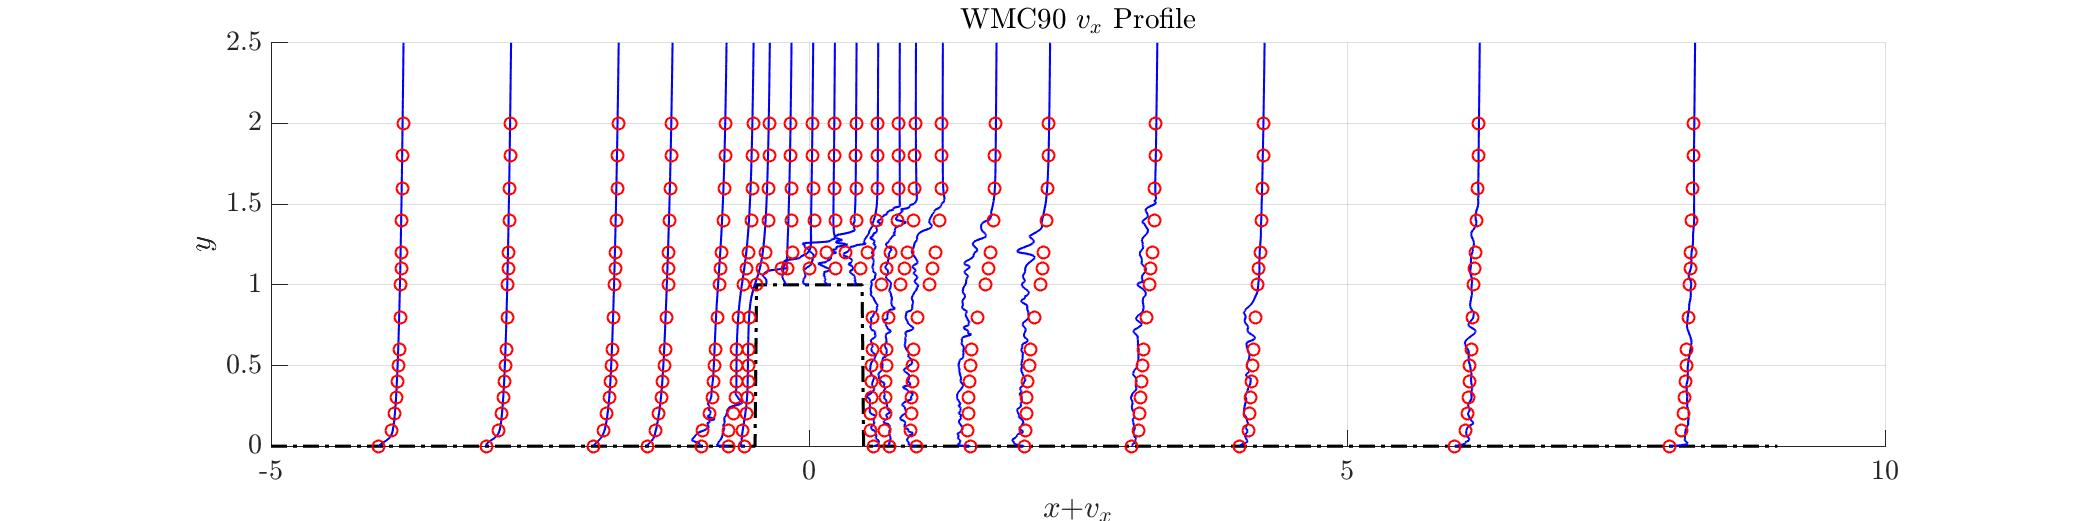
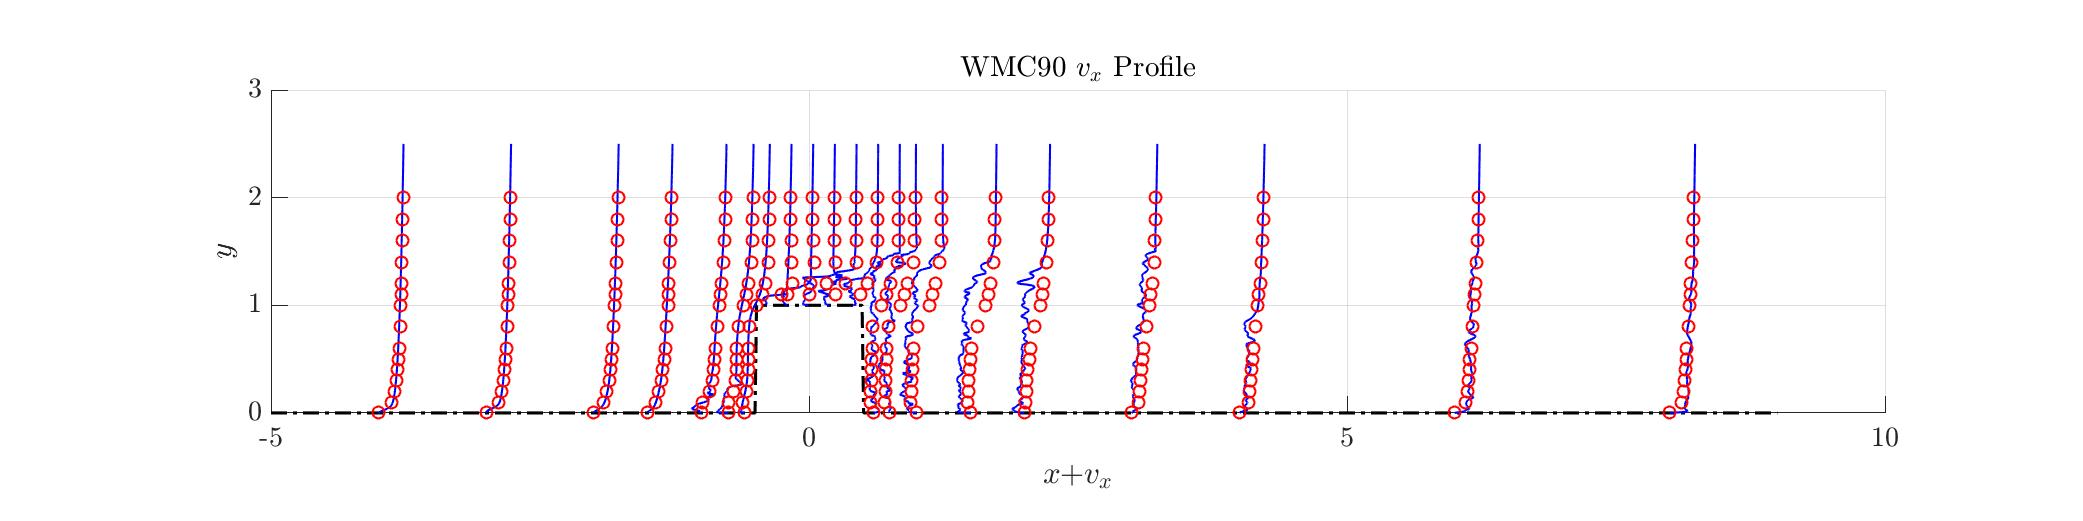
clarified TKE scaling

diff --git a/mtlb/epa90.m b/mtlb/epa90.m
@@ -49,6 +49,7 @@ pN=U(:,4);
 uuN=tk(:,1);
 vvN=tk(:,2);
 wwN=tk(:,3);
+k1N=0.75*(uuN+vvN); % good proxy for TKE
 
 kN = 0.5 * sum(tk')';
 
@@ -84,9 +85,7 @@ uE1=M(:,3)*ufactor;
 uuE1=M(:,4)*ufactor;
 vE1=M(:,5)*ufactor; % w -> v
 vvE1=M(:,6)*ufactor; % w -> v
-kE1=M(:,7)*ufactor*ufactor;
-knormE1=M(:,8)*ufactor;
-sqrtHE1=M(:,9)*ufactor;
+kE1 = 0.75*(uuE1.*uuE1+vvE1.*vvE1);
 
 zE1=xE1*0;
 [xE1,yE1,zE1] = insidecube(al,xE1,yE1,zE1);
@@ -94,15 +93,10 @@ zE1=xE1*0;
 % figs
 %----------
 
-k1E1 = 0.5*(uuE1.*uuE1+vvE1.*vvE1);
-k1N  = 0.5*(uuN .*uuN +vvN .*vvN );
 
-profXY2(uN(I1),xN(I1),yN(I1),uE1,xE1,yE1,0.2,'u','$$v_x$$',al,xw,yw);
-profXY2(kN(I1),xN(I1),yN(I1),kE1,xE1,yE1,1.0,'k','$$k$$',al,xw,yw);
-
-profXY2(k1N(I1),xN(I1),yN(I1),k1E1,xE1,yE1,1.0,'k1Nk1E','k1Nk1E',al,xw,yw);
-profXY2(kN(I1) ,xN(I1),yN(I1),k1E1,xE1,yE1,1.0,'k0Nk1E','k0Nk1E',al,xw,yw);
-%profXY2(kE1,xE1,yE1,k1E1,xE1,yE1,1.0,'kkk','$$k$$',al,xw,yw);
+profXY2( uN(I1),xN(I1),yN(I1),uE1,xE1,yE1,0.2,'u','$$v_x$$',al,xw,yw);
+profXY2(k1N(I1),xN(I1),yN(I1),kE1,xE1,yE1,1.0,'k','$$k$$'  ,al,xw,yw);
+%
 %=======================================================
 % vertical centerline plane
 %=======================================================
@@ -130,13 +124,15 @@ xE2=M(:,1)*xfactor;
 zE2=M(:,2)*xfactor; % y -> z
 uE2=M(:,3)*ufactor;
 uuE2=M(:,4)*ufactor;
-vE2=M(:,7)*ufactor;  % w -> v
-vvE2=M(:,8)*ufactor; % w -> v
+wE2=M(:,7)*ufactor;  % v -> w
+wwE2=M(:,8)*ufactor; % v -> w
+kE2 = 0.75*(uuE2.*uuE2+wwE2.*wwE2);
 
 yE2=xE2*0+0.1;
 [xE2,yE2,zE2] = insidecube(al,xE2,yE2,zE2);
 %----------
 % figs
 %----------
-profXZ2(uN(I2),xN(I2),zN(I2),uE2,xE2,zE2,0.2,'u','$$v_x$$',al,xw,yw,0.1);
+profXZ2( uN(I2),xN(I2),zN(I2),uE2,xE2,zE2,0.2,'u','$$v_x$$',al,xw,yw,0.1);
+profXZ2(k1N(I2),xN(I2),zN(I2),kE2,xE2,zE2,1.0,'k','$$k$$'  ,al,xw,yw,0.1);
 

diff --git a/mtlb/profXY2.m b/mtlb/profXY2.m
@@ -21,7 +21,7 @@ ax.YScale='linear';
 xlabel(['$$x + $$',qtyname]);
 ylabel('$$y$$');
 
-daspect([1.5,1,1]);
+daspect([1,1,1]);
 set(fig,'position',[585,1e3,1000,250])
 
 % bottom wall
@@ -32,6 +32,7 @@ p.HandleVisibility='off';
 %p=plot(xq1,y1,'ko','linewidth',1.0);
 for i=1:1:size(xq1,1)
 	p=plot(xq1(i,:),y1(i,:),'b-','linewidth',1.0);
+	%p=plot(xq2(i,:),y2(i,:),'r-','linewidth',1.0);
 	%p.HandleVisibility='off';
 end
 %p.HandleVisibility='on';
